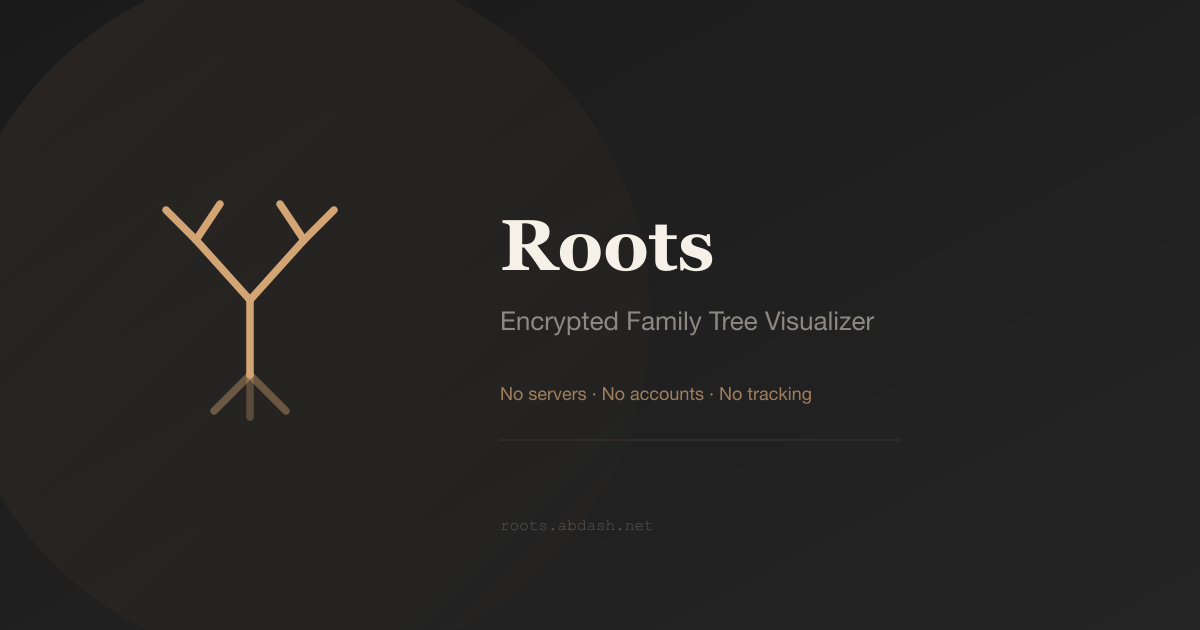
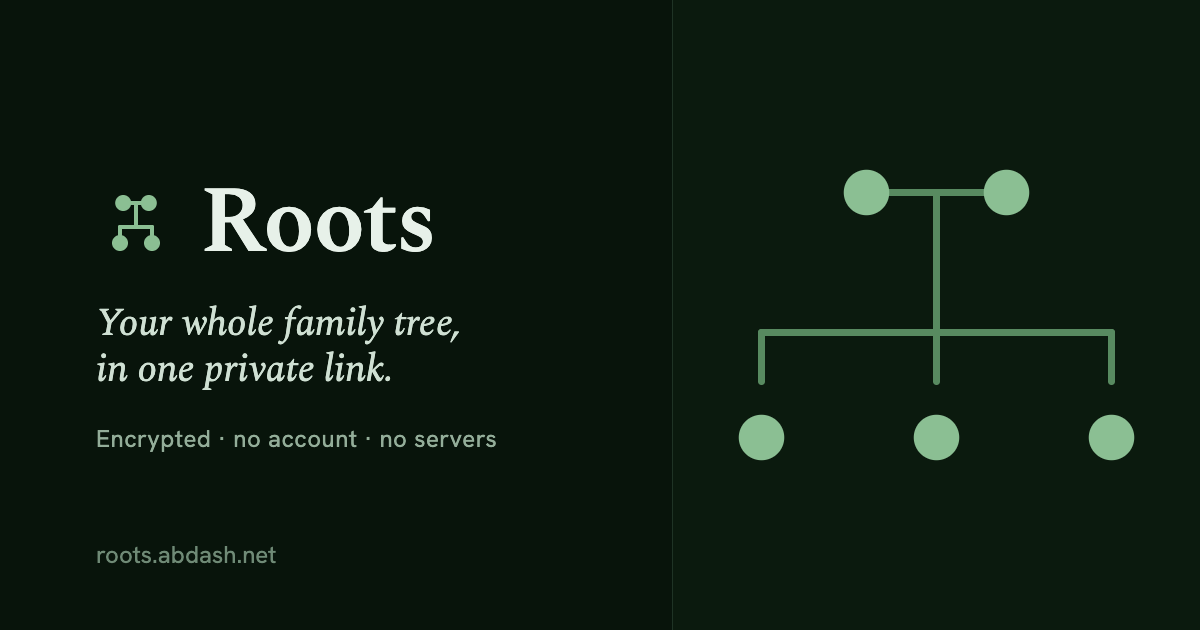
feat(brand): node-graph "Roots" mark + green-monochrome brand assets
Replace the stand-in TreePine glyph with a custom RootsMark — a couple joined by a union link branching to children, mirroring the app's union-aware layout ("the logo is the product"). Used in the header, the passphrase/welcome screen, and the About "What is Roots?" section.

Regenerate the brand assets to the green-monochrome theme (were stale terracotta): favicon.svg (sage mark on a forest tile), apple-touch-icon.png (180²), and a new editorial og-image.png (1200×630 — mark + Spectral wordmark, tagline, and a mini family-tree visual). Fix site.webmanifest colors (#1a1a1a → #041107) and correct the README palette line.

diff --git a/src/components/ui/RootsMark.tsx b/src/components/ui/RootsMark.tsx
@@ -1,0 +1,52 @@
+/**
+ * Roots brand mark — a node-graph "family tree": a couple joined by a union
+ * link, branching down to two children. It mirrors how the app itself draws the
+ * union-aware layout, so the logo *is* the product.
+ *
+ * The mark is a single colour via `currentColor`, so it inherits the surrounding
+ * text colour (e.g. `text-amber`) and recolours cleanly across light/dark themes.
+ * API mirrors the lucide icons it replaces (`size` + `className`).
+ *
+ * @module RootsMark
+ */
+
+interface RootsMarkProps {
+  /** Rendered width & height in px (square). Defaults to 20. */
+  size?: number;
+  className?: string;
+  /**
+   * Accessible label. When provided the mark is exposed to assistive tech as an
+   * image; when omitted it is decorative (`aria-hidden`).
+   */
+  title?: string;
+}
+
+export function RootsMark({ size = 20, className, title }: RootsMarkProps) {
+  return (
+    <svg
+      width={size}
+      height={size}
+      viewBox="0 0 100 100"
+      fill="none"
+      className={className}
+      role={title ? 'img' : undefined}
+      aria-label={title}
+      aria-hidden={title ? undefined : true}
+    >
+      {title ? <title>{title}</title> : null}
+      <g stroke="currentColor" strokeWidth={5} strokeLinecap="round">
+        <line x1="34" y1="25" x2="66" y2="25" />
+        <line x1="50" y1="25" x2="50" y2="55" />
+        <line x1="30" y1="55" x2="70" y2="55" />
+        <line x1="30" y1="55" x2="30" y2="65" />
+        <line x1="70" y1="55" x2="70" y2="65" />
+      </g>
+      <g fill="currentColor">
+        <circle cx="34" cy="25" r="10" />
+        <circle cx="66" cy="25" r="10" />
+        <circle cx="30" cy="75" r="10" />
+        <circle cx="70" cy="75" r="10" />
+      </g>
+    </svg>
+  );
+}

diff --git a/src/app/App.tsx b/src/app/App.tsx
@@ -3,7 +3,6 @@ import {
   Share2,
   Lock,
   Users,
-  TreePine,
   Undo2,
   Redo2,
   Search,
@@ -27,6 +26,7 @@ import { ExportImportBar } from '@/components/ui/ExportImportBar';
 import { ConfirmModal } from '@/components/ui/ConfirmModal';
 import { HintBar } from '@/components/ui/HintBar';
 import { Button } from '@/components/ui/Button';
+import { RootsMark } from '@/components/ui/RootsMark';
 import { useTreeStore } from '@/hooks/useTree';
 import { useAuthStore } from '@/hooks/useAuth';
 import { useThemeStore } from '@/hooks/useTheme';
@@ -138,7 +138,7 @@ export default function App() {
       <header className="shrink-0 flex items-center justify-between gap-3 px-3 sm:px-6 py-3 sm:py-3.5 border-b border-charcoal-lighter bg-charcoal z-40 relative">
         <div className="flex items-center gap-2 sm:gap-4 min-w-0">
           <div className="flex items-center gap-2 min-w-0">
-            <TreePine size={18} className="text-amber shrink-0" />
+            <RootsMark size={18} className="text-amber shrink-0" />
             <h1 className="font-display text-base sm:text-lg font-medium text-cream tracking-tight truncate">
               {tree?.name ?? strings.app.title}
             </h1>

diff --git a/src/components/ui/PassphraseScreen.tsx b/src/components/ui/PassphraseScreen.tsx
@@ -1,7 +1,8 @@
 import { useState, useCallback, useMemo } from 'react';
 import { motion } from 'framer-motion';
-import { Lock, Plus, TreePine, Eye, EyeOff, RotateCcw, Sun, Moon } from 'lucide-react';
+import { Lock, Plus, Eye, EyeOff, RotateCcw, Sun, Moon } from 'lucide-react';
 import { Button } from '@/components/ui/Button';
+import { RootsMark } from '@/components/ui/RootsMark';
 import { Input } from '@/components/ui/Input';
 import { LanguageSwitcher } from '@/components/ui/LanguageSwitcher';
 import { ConfirmModal } from '@/components/ui/ConfirmModal';
@@ -120,7 +121,7 @@ export function PassphraseScreen() {
       >
         {/* Logo / Header */}
         <div className="text-center mb-10">
-          <TreePine size={32} className="text-amber mx-auto mb-5" />
+          <RootsMark size={32} className="text-amber mx-auto mb-5" />
           <h1 className="font-display text-4xl font-medium text-cream tracking-tight">
             {strings.app.title}
           </h1>

diff --git a/src/components/ui/AboutModal.tsx b/src/components/ui/AboutModal.tsx
@@ -6,9 +6,9 @@
  * @module AboutModal
  */
 import { Modal } from '@/components/ui/Modal';
+import { RootsMark } from '@/components/ui/RootsMark';
 import { useI18n } from '@/lib/i18n';
 import {
-  TreePine,
   Link2,
   Lock,
   Share2,
@@ -62,7 +62,7 @@ export function AboutModal({ isOpen, onClose }: AboutModalProps) {
     <Modal isOpen={isOpen} onClose={onClose} title={about.title}>
       <div className="flex flex-col gap-5 max-h-[70vh] overflow-y-auto pr-1 -mr-1 custom-scrollbar">
         {/* What is Roots */}
-        <Section icon={<TreePine size={14} />} title={about.whatTitle}>
+        <Section icon={<RootsMark size={14} />} title={about.whatTitle}>
           <p>{about.whatBody}</p>
         </Section>
 

diff --git a/README.md b/README.md
@@ -98,7 +98,7 @@ The tree visualization uses a **union-aware layered layout** implemented in pure
 
 ## Design
 
-Roots uses an **editorial-paper aesthetic** — Spectral (serif) for headings, Hanken Grotesk for body text, and an OKLCH terracotta palette. A light/dark theme toggle is available in the header and persists across sessions via `localStorage`.
+Roots uses an **editorial-paper aesthetic** — Spectral (serif) for headings, Hanken Grotesk for body text, and a green-monochrome OKLCH palette with a dark forest-green default. A light/dark theme toggle is available in the header and persists across sessions via `localStorage`.
 
 ## Getting Started
 
